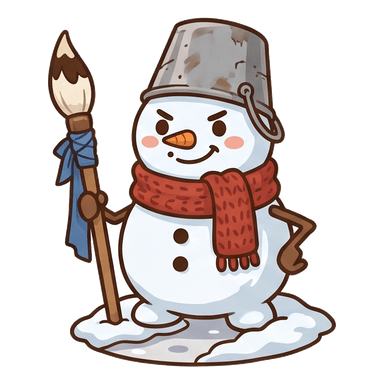
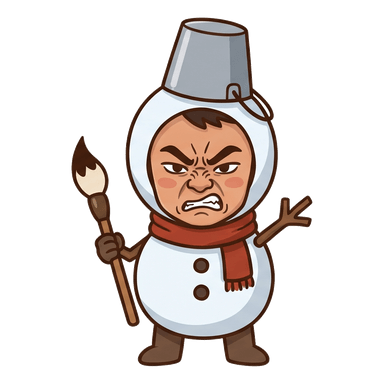
ボスを お父さん・お母さんの 着ぐるみ姿に かえる（16体、名前は なし）
- 奇数の ステージは お父さん、偶数は お母さん。ステージに あった 着ぐるみ（ばった・かえる・カラス…）で おこった顔
- さいごの 王さまの おしろは 2人そろって 王さまと 女王さま
- 絵は assets/gen/bosses-family-*.jpg（参考の 写真は リポジトリに 入れない）。14 は 笑っていたので 1体だけ 描き直し

Claude-Session: https://claude.ai/code/session_012n6qHyUnENBCGW2ozhZxyo

diff --git a/scripts/cut-sheets.ts b/scripts/cut-sheets.ts
@@ -1,5 +1,5 @@
 // Gemini で作った絵（横に並んだもの）を切り分けて public/ に置く
-// 使い方: npx tsx scripts/cut-sheets.ts [bosses|modes|heroes]
+// 使い方: npx tsx scripts/cut-sheets.ts [bosses-family-1|…|modes|heroes]
 import { join } from 'node:path';
 import { cutByComponents, cutSheet, type ComponentCutOptions, type CutOptions } from './lib/sheet';
 
@@ -11,12 +11,14 @@ const boss = (stage: number) => pub(`bosses/stage-${stage}.png`);
 type Job = { by: 'columns'; o: CutOptions } | { by: 'components'; o: ComponentCutOptions };
 
 const SHEETS: Record<string, Job> = {
-  // ボス：ステージごとに1体（public/bosses/stage-<ステージ>.png）。最初の4体は各エリアのさいご（4・8・12・16）。
-  // 筆やマフラーがとなりと横に重なるので、かたまりごとに振り分ける。白い毛が消えないよう背景の近さは小さく
-  bosses: { by: 'components', o: { src: gen('bosses-sheet.jpg'), outFiles: [4, 8, 12, 16].map(boss), boundaries: [0.255, 0.505, 0.765], bgTol: 14 } },
-  'bosses-a': { by: 'components', o: { src: gen('bosses-a-sheet.jpg'), outFiles: [1, 2, 3, 5].map(boss), boundaries: [0.265, 0.505, 0.7375], bgTol: 14 } },
-  'bosses-b': { by: 'components', o: { src: gen('bosses-b-sheet.jpg'), outFiles: [6, 7, 9, 10].map(boss), boundaries: [0.27, 0.51, 0.75], bgTol: 14 } },
-  'bosses-c': { by: 'components', o: { src: gen('bosses-c-sheet.jpg'), outFiles: [11, 13, 14, 15].map(boss), boundaries: [0.26, 0.5125, 0.7575], bgTol: 14 } },
+  // ボス：ステージごとに1体（public/bosses/stage-<ステージ>.png）。お父さん（奇数）・お母さん（偶数）が ステージに あった 着ぐるみで おこっている。さいごは 2人いっしょ
+  // 筆や しずくが となりと 横に 重なるので、かたまりごとに 振り分ける。白い 毛が 消えないよう 背景の 近さは 小さく
+  'bosses-family-1': { by: 'components', o: { src: gen('bosses-family-1-sheet.jpg'), outFiles: [1, 2, 3, 4].map(boss), boundaries: [0.25, 0.49, 0.735], bgTol: 14 } },
+  'bosses-family-2': { by: 'components', o: { src: gen('bosses-family-2-sheet.jpg'), outFiles: [5, 6, 7, 8].map(boss), boundaries: [0.27, 0.51, 0.75], bgTol: 14 } },
+  'bosses-family-3': { by: 'components', o: { src: gen('bosses-family-3-sheet.jpg'), outFiles: [9, 10, 11, 12].map(boss), boundaries: [0.255, 0.5, 0.75], bgTol: 14 } },
+  'bosses-family-4': { by: 'components', o: { src: gen('bosses-family-4-sheet.jpg'), outFiles: [13, 14, 15, 16].map(boss), boundaries: [0.26, 0.48, 0.71], bgTol: 14 } },
+  // 14（お母さんの 月のうさぎ）は 上の 絵では 笑っていたので、1体だけ 描き直した 絵で 上書きする（上の ジョブより 後に 置く）
+  'bosses-family-14': { by: 'components', o: { src: gen('bosses-family-14.jpg'), outFiles: [boss(14)], boundaries: [], bgTol: 14 } },
   // モードのアイコン（左から よみ・かき・かきじゅん・おくりがな）。矢印や飛行機の線は別のかたまりなので、かたまりごとに振り分ける
   modes: { by: 'components', o: { src: gen('modes-sheet.jpg'), outFiles: ['read', 'write', 'stroke', 'okuri'].map((m) => pub(`modes/${m}.png`)), boundaries: [0.27, 0.496, 0.734], bgTol: 14, size: 192 } },
   // 勇者（自分の分身）：称号の 段階ごとに 1まい（public/heroes/hero-<段階>.png、左から かけだし → マスター）。下に 勝手に 付いた 英語の 文字は 捨てる
